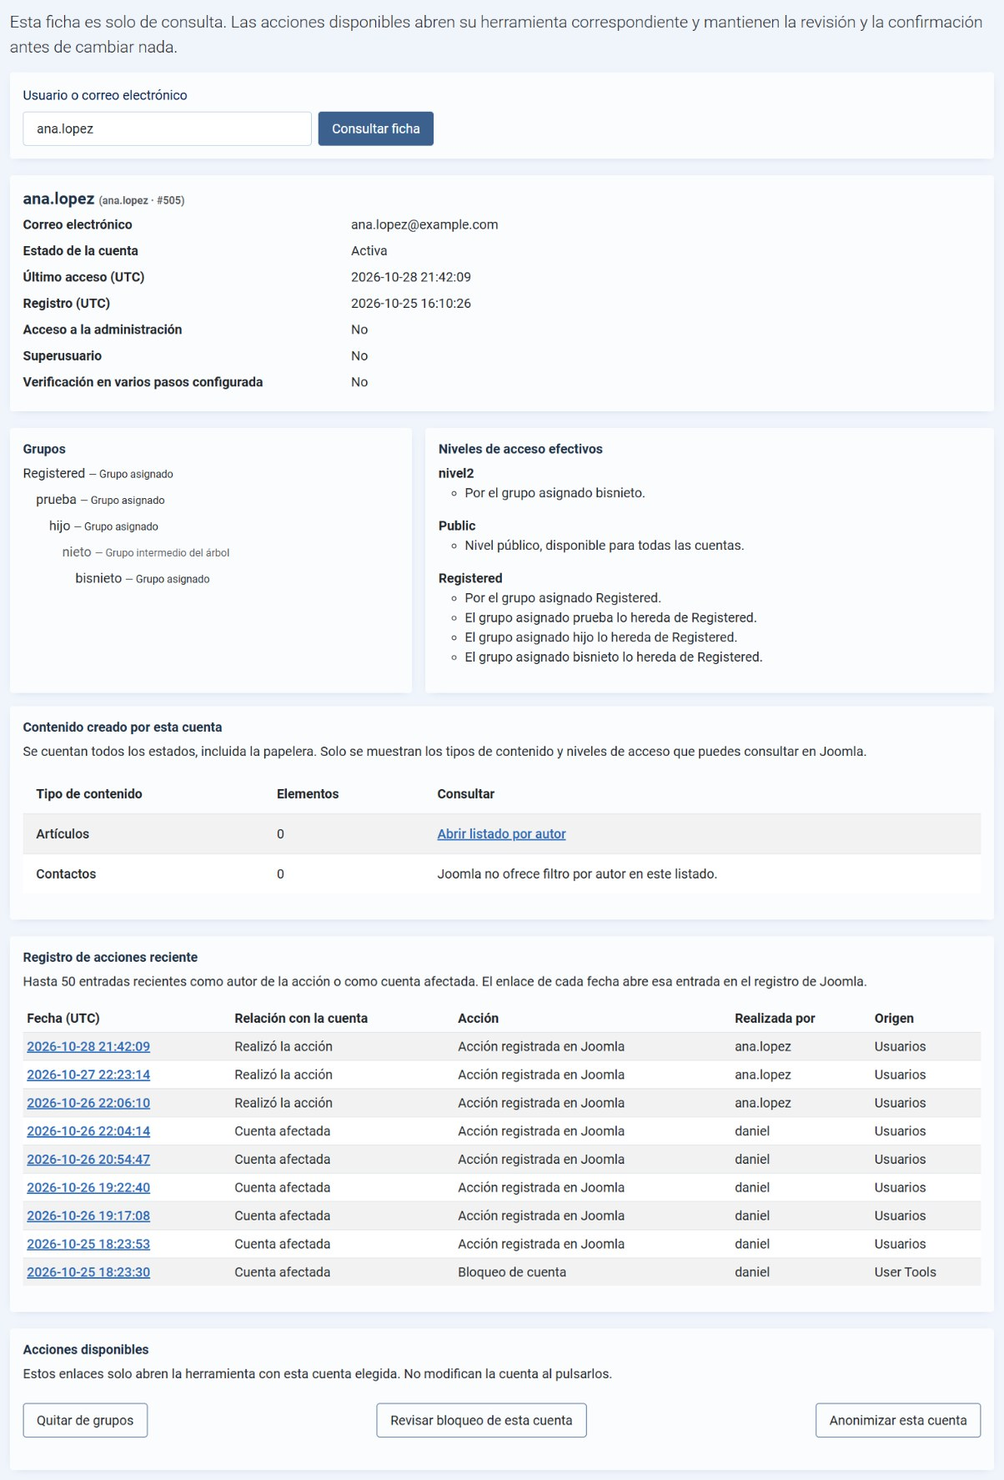
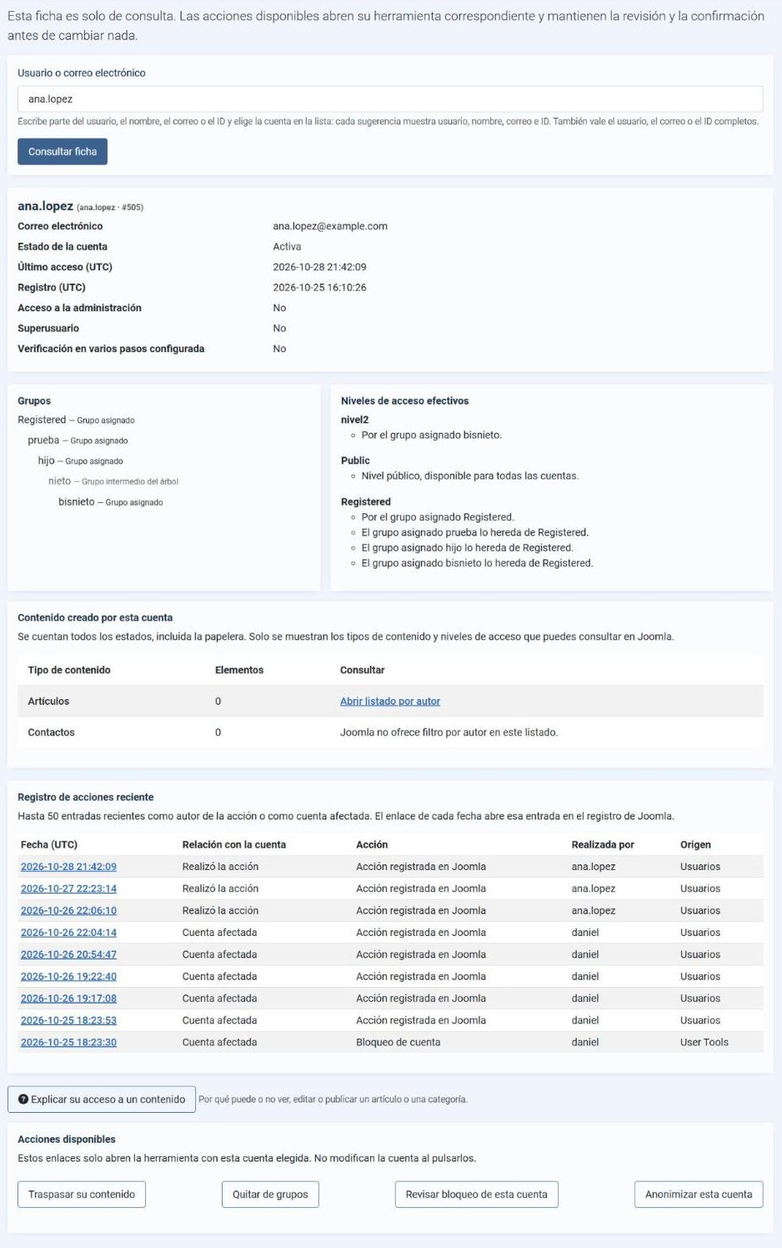
Add screenshots for sync, handover and anonymisation results
Refresh the home, category and profile screenshots and add the
synchronise, hand over and anonymisation result screens to the
gallery and the README in both languages. Note that long page titles
widen Joomla's header beyond 390 px.

The selection counter now uses a singular key, so one account no
longer reads "1 cuentas seleccionadas".

Refs #71

diff --git a/tests/js/admin.test.js b/tests/js/admin.test.js
@@ -9,7 +9,7 @@ const script = fs.readFileSync(path.join(__dirname, '../../media/js/admin.js'), 
 
 const load = (html) => {
   const dom = new JSDOM(`<!doctype html><body>${html}</body>`, { runScripts: 'outside-only' });
-  dom.window.Joomla = { Text: { _: (key, fallback) => ({ COM_USERTOOLS_JS_SELECTED: '%d seleccionadas', COM_USERTOOLS_JS_TYPE_COUNT: 'Escribe %d' }[key] || fallback) } };
+  dom.window.Joomla = { Text: { _: (key, fallback) => ({ COM_USERTOOLS_JS_SELECTED: '%d seleccionadas', COM_USERTOOLS_JS_SELECTED_1: '%d seleccionada', COM_USERTOOLS_JS_TYPE_COUNT: 'Escribe %d' }[key] || fallback) } };
   dom.window.eval(script);
   // The script waits for DOMContentLoaded while jsdom is still parsing.
   return new Promise((resolve) => {
@@ -68,7 +68,7 @@ test('inactivity review: selection, select-all on visible rows and typed confirm
   boxes[0].checked = true;
   change(boxes[0]);
   assert.equal(doc.querySelector('[data-ut-selected]').value, '[1]');
-  assert.equal(doc.querySelector('[data-ut-suspension-count]').textContent, '1 seleccionadas');
+  assert.equal(doc.querySelector('[data-ut-suspension-count]').textContent, '1 seleccionada', 'one account takes the singular key');
   assert.equal(doc.querySelector('[data-ut-typed]').hidden, true, 'below the threshold no number is typed');
   const filter = doc.querySelector('[data-ut-filter]');
   filter.value = 'user3';
@@ -83,6 +83,7 @@ test('inactivity review: selection, select-all on visible rows and typed confirm
   all.checked = true;
   change(all);
   assert.equal(doc.querySelector('[data-ut-selected]').value, '[1,2,3,4]');
+  assert.equal(doc.querySelector('[data-ut-suspension-count]').textContent, '4 seleccionadas');
   const typed = doc.querySelector('[data-ut-typed]');
   assert.equal(typed.hidden, false);
   assert.equal(doc.querySelector('[data-ut-typed-input]').required, true);

diff --git a/media/js/admin.js b/media/js/admin.js
@@ -47,7 +47,11 @@
         const ids = boxes.filter((box) => box.checked).map((box) => Number(box.dataset.utSuspendId));
         form.querySelector('[data-ut-selected]').value = JSON.stringify(ids);
         form.querySelector('[data-ut-selection-ready]').value = '1';
-        if (counter) counter.textContent = sprintf(text('COM_USERTOOLS_JS_SELECTED', '%d selected'), ids.length);
+        if (counter) {
+          // Joomla.Text has no plural rules, so the singular has its own key.
+          const key = ids.length === 1 ? 'COM_USERTOOLS_JS_SELECTED_1' : 'COM_USERTOOLS_JS_SELECTED';
+          counter.textContent = sprintf(text(key, ids.length === 1 ? '%d account selected' : '%d accounts selected'), ids.length);
+        }
         if (submit) submit.disabled = !ids.length;
         if (all) {
           all.checked = !!boxes.length && ids.length === boxes.length;

diff --git a/admin/src/View/ViewTrait.php b/admin/src/View/ViewTrait.php
@@ -48,7 +48,7 @@ trait ViewTrait
         $wa = $this->getDocument()->getWebAssetManager();
         $wa->getRegistry()->addExtensionRegistryFile('com_usertools');
         $wa->useStyle('com_usertools.admin')->useScript('com_usertools.admin');
-        foreach (['COM_USERTOOLS_JS_SELECTED', 'COM_USERTOOLS_JS_NO_RESULTS', 'COM_USERTOOLS_JS_TYPE_COUNT'] as $key) {
+        foreach (['COM_USERTOOLS_JS_SELECTED', 'COM_USERTOOLS_JS_SELECTED_1', 'COM_USERTOOLS_JS_NO_RESULTS', 'COM_USERTOOLS_JS_TYPE_COUNT'] as $key) {
             Text::script($key);
         }
     }

diff --git a/docs/capturas.md b/docs/capturas.md
@@ -4,21 +4,21 @@
 
 [Volver al README](../README.md)
 
-Estas capturas compartidas muestran la interfaz en español en Joomla 6.2.0. Cada pie indica la versión en que se hizo la captura cuando es reciente: las de eliminación son de 2026.10.5, las de quitar de grupos de 2026.10.9 y 2026.10.16, la revisión de la comparación y la de grupos y niveles de acceso de 2026.10.11, la de contenido por nivel de acceso de 2026.10.12, las de diagnóstico de accesos y la lista de contenido por antigüedad de 2026.10.15, las de mover grupos de 2026.10.16, las de añadir cuentas a grupos, exportar cuentas y deshacer bloqueos de 2026.10.19, las de la ficha de una persona de 2026.10.20, la tabla de contenido por antigüedad con sus cuatro tipos, las categorías de automatización, grupos y eliminación, y el recorrido guiado, de 2026.10.21, y la portada, la categoría «Revisar cuentas», el panel de Usuarios y la explicación de acceso, de la versión siguiente a 2026.10.21. Las que no indican versión corresponden a una interfaz anterior y pueden diferir de la actual. Para las opciones y el comportamiento vigentes, consulta el [README](../README.md) y las [preguntas frecuentes](../FAQ.md).
+Estas capturas compartidas muestran la interfaz en español en Joomla 6.2.0. Cada pie indica la versión en que se hizo la captura cuando es reciente: las de eliminación son de 2026.10.5, las de quitar de grupos de 2026.10.9 y 2026.10.16, la revisión de la comparación y la de grupos y niveles de acceso de 2026.10.11, la de contenido por nivel de acceso de 2026.10.12, las de diagnóstico de accesos y la lista de contenido por antigüedad de 2026.10.15, las de mover grupos de 2026.10.16, las de añadir cuentas a grupos, exportar cuentas y deshacer bloqueos de 2026.10.19, las de la ficha de una persona de 2026.10.20, la tabla de contenido por antigüedad con sus cuatro tipos, las categorías de automatización, grupos y eliminación, y el recorrido guiado, de 2026.10.21, y la portada, las categorías «Revisar cuentas» y «Grupos y niveles de acceso», la ficha de una persona, el panel de Usuarios, la explicación de acceso, sincronizar un colectivo, traspasar contenido y el resultado de la anonimización, de la versión siguiente a 2026.10.21. Las que no indican versión corresponden a una interfaz anterior y pueden diferir de la actual. Para las opciones y el comportamiento vigentes, consulta el [README](../README.md) y las [preguntas frecuentes](../FAQ.md).
 
-Además de estas capturas, la CI comprueba el orden de teclado, el despliegue del menú y la categoría activa, y guarda capturas a texto al 200 %, con preferencia oscura y a 390 px de ancho. Las tarjetas caben a 390 px, pero la cabecera general de Joomla genera un ancho de documento de 600 px; no se ha alterado la plantilla para ocultarlo. Esto no acredita conformidad WCAG ni sustituye pruebas con lector de pantalla.
+Además de estas capturas, la CI comprueba el orden de teclado, el despliegue del menú y la categoría activa, y guarda capturas a texto al 200 %, con preferencia oscura y a 390 px de ancho. Las tarjetas y los formularios caben a 390 px, pero la cabecera general de Joomla no parte el título de la página y genera un ancho de documento de unos 600 px, y hasta unos 780 px con los títulos más largos, como el de «Traspasar contenido y dar de baja»; no se ha alterado la plantilla para ocultarlo. Esto no acredita conformidad WCAG ni sustituye pruebas con lector de pantalla.
 
 ![Portada de User Tools con sus cuatro categorías y todas las herramientas permitidas, y el menú Componentes → User Tools desplegado con Inicio activo (posterior a 2026.10.21)](screenshots/01-portada.jpg)
 
-![Categoría «Revisar cuentas», señalada en el menú, con sus seis herramientas (posterior a 2026.10.21)](screenshots/31-menu-cuentas.jpg)
+![Categoría «Revisar cuentas», señalada en el menú, con sus siete herramientas, entre ellas «Traspasar contenido y dar de baja» (posterior a 2026.10.21)](screenshots/31-menu-cuentas.jpg)
 
-![Categoría «Grupos y niveles de acceso», señalada en el menú, con sus siete herramientas (2026.10.21)](screenshots/32-menu-grupos.jpg)
+![Categoría «Grupos y niveles de acceso», señalada en el menú, con sus ocho herramientas, entre ellas «Sincronizar un colectivo» (posterior a 2026.10.21)](screenshots/32-menu-grupos.jpg)
 
 ![Categoría «Automatización y seguimiento»: bloqueo automático por inactividad, con el estado de su plugin, y resultados de tareas (2026.10.21)](screenshots/33-menu-automatizacion.jpg)
 
 ![Categoría «Eliminar y anonimizar cuentas», con la marca «Permanente» y el aviso de que no se puede deshacer en cada herramienta (2026.10.21)](screenshots/34-menu-eliminacion.jpg)
 
-![Ficha de una persona: datos de la cuenta, grupos en su árbol con el grupo intermedio, niveles de acceso efectivos y por qué, contenido creado, registro de acciones reciente y enlaces a las herramientas (2026.10.20)](screenshots/28-ficha-persona.jpg)
+![Ficha de una persona: datos de la cuenta, grupos en su árbol con el grupo intermedio, niveles de acceso efectivos y por qué, contenido creado, registro de acciones reciente y enlaces a las herramientas, con «Traspasar su contenido» (posterior a 2026.10.21)](screenshots/28-ficha-persona.jpg)
 
 ![Ficha de una persona: revisión del bloqueo de esa cuenta, con confirmación y sin filtro de inactividad (2026.10.20)](screenshots/29-ficha-revision-bloqueo.jpg)
 
@@ -42,13 +42,27 @@ Además de estas capturas, la CI comprueba el orden de teclado, el despliegue de
 
 ![Deshacer bloqueos: tandas recientes de la tarea programada con las cuentas que bloqueó cada una, para revisarlas antes de desbloquear (2026.10.19)](screenshots/27-deshacer-bloqueos.jpg)
 
+![Traspasar contenido y dar de baja: la cuenta que se va, abierta desde su ficha con la cuenta ya elegida (posterior a 2026.10.21)](screenshots/38-traspasar-cuenta.jpg)
+
+![Traspasar contenido y dar de baja: artículos de la cuenta con su estado y categoría, y la cuenta que los recibe (posterior a 2026.10.21)](screenshots/39-traspasar-articulos.jpg)
+
+![Traspasar contenido y dar de baja: revisión con origen, destino y sus grupos, y qué cambia en cada artículo (posterior a 2026.10.21)](screenshots/40-traspasar-revision.jpg)
+
+![Traspasar contenido y dar de baja: resultado con los artículos traspasados y los enlaces para revisar el bloqueo o la anonimización de la cuenta (posterior a 2026.10.21)](screenshots/41-traspasar-resultado.jpg)
+
 ![Eliminar inactivos: plazo, cuentas listadas y exclusiones (2026.10.5)](screenshots/11-eliminar-plazo.jpg)
 
 ![Eliminar inactivos: selección de cuentas y confirmación (2026.10.5)](screenshots/12-eliminar-seleccion.jpg)
 
+![Anonimizar cuentas: resultado con la identidad comprobada y la limpieza adicional comprobada por cuenta, y el resumen de lo que se ha hecho, lo que no se puede comprobar y lo que queda fuera (posterior a 2026.10.21)](screenshots/42-anonimizar-resultado.jpg)
+
 ![Añadir cuentas a grupos: pares usuario;grupo con rutas completas (2026.10.19)](screenshots/24-anadir-grupos-lista.jpg)
 
 ![Añadir cuentas a grupos: revisión con las asignaciones que se harán, una que ya existía, una cuenta protegida, un usuario inexistente y un grupo con acceso a la administración rechazado (2026.10.19)](screenshots/25-anadir-grupos-revision.jpg)
+
+![Sincronizar un colectivo: rama gestionada, tipo de lista, forma de identificar las cuentas y lista con su ejemplo (posterior a 2026.10.21)](screenshots/36-sincronizar-lista.jpg)
+
+![Sincronizar un colectivo: revisión de una actualización parcial con los grupos gestionados y, por cuenta, una cuenta nueva, dos cambios de grupos, una cuenta protegida y una fila con un grupo fuera de la rama (posterior a 2026.10.21)](screenshots/37-sincronizar-revision.jpg)
 
 ![Quitar de grupos: elegir la cuenta (2026.10.9)](screenshots/15-quitar-grupos-cuenta.jpg)
 

diff --git a/docs/screenshots.en.md b/docs/screenshots.en.md
@@ -4,21 +4,21 @@
 
 [Back to the README](../README.en.md)
 
-These shared screenshots show the Spanish interface on Joomla 6.2.0. Each caption gives the version the screenshot was taken with when it is recent: deletion in 2026.10.5, remove from groups in 2026.10.9 and 2026.10.16, the comparison review and groups and access levels in 2026.10.11, content by access level in 2026.10.12, access diagnosis and the content by age list in 2026.10.15, move groups in 2026.10.16, add accounts to groups, export accounts and undo blocks in 2026.10.19, the account profile in 2026.10.20, the content by age table with its four kinds, the automation, groups and delete categories and the guided tour in 2026.10.21, and the home screen, the “Review accounts” category, the Users dashboard and the access explanation in the version after 2026.10.21. Screenshots without a version show an older interface and may differ from the current one. For current options and behaviour, see the [README](../README.en.md) and [FAQ](../FAQ.en.md).
+These shared screenshots show the Spanish interface on Joomla 6.2.0. Each caption gives the version the screenshot was taken with when it is recent: deletion in 2026.10.5, remove from groups in 2026.10.9 and 2026.10.16, the comparison review and groups and access levels in 2026.10.11, content by access level in 2026.10.12, access diagnosis and the content by age list in 2026.10.15, move groups in 2026.10.16, add accounts to groups, export accounts and undo blocks in 2026.10.19, the account profile in 2026.10.20, the content by age table with its four kinds, the automation, groups and delete categories and the guided tour in 2026.10.21, and the home screen, the “Review accounts” and “Groups and access levels” categories, the account profile, the Users dashboard, the access explanation, synchronising a group branch, handing over content and the anonymisation result in the version after 2026.10.21. Screenshots without a version show an older interface and may differ from the current one. For current options and behaviour, see the [README](../README.en.md) and [FAQ](../FAQ.en.md).
 
-Besides these screenshots, CI checks keyboard order, menu expansion and the active category, and saves captures at 200% text size, with a dark preference and at 390 px width. The cards fit at 390 px, but Joomla’s overall header produces a document width of 600 px; the template has not been altered to hide this. This does not establish WCAG conformance or replace screen-reader testing.
+Besides these screenshots, CI checks keyboard order, menu expansion and the active category, and saves captures at 200% text size, with a dark preference and at 390 px width. The cards and forms fit at 390 px, but Joomla’s overall header does not wrap the page title and produces a document width of about 600 px, and up to about 780 px with the longest titles, such as “Hand over content and close an account”; the template has not been altered to hide this. This does not establish WCAG conformance or replace screen-reader testing.
 
 ![User Tools home screen with its four categories and all permitted tools, and the Components → User Tools menu expanded with Home active (after 2026.10.21, Spanish interface)](screenshots/01-portada.jpg)
 
-![“Review accounts” category, marked in the menu, with its six tools (after 2026.10.21, Spanish interface)](screenshots/31-menu-cuentas.jpg)
+![“Review accounts” category, marked in the menu, with its seven tools, including “Hand over content and close an account” (after 2026.10.21, Spanish interface)](screenshots/31-menu-cuentas.jpg)
 
-![“Groups and access levels” category, marked in the menu, with its seven tools (2026.10.21, Spanish interface)](screenshots/32-menu-grupos.jpg)
+![“Groups and access levels” category, marked in the menu, with its eight tools, including “Synchronise a group branch” (after 2026.10.21, Spanish interface)](screenshots/32-menu-grupos.jpg)
 
 ![“Automation and follow-up” category: automatic inactivity blocking, with its plugin status, and task results (2026.10.21, Spanish interface)](screenshots/33-menu-automatizacion.jpg)
 
 ![“Delete and anonymise accounts” category, with the “Permanent” badge and the cannot-be-undone warning on each tool (2026.10.21, Spanish interface)](screenshots/34-menu-eliminacion.jpg)
 
-![Account profile: account details, groups in their tree with the intermediate group, effective access levels and why, authored content, recent action log and links to the tools (2026.10.20, Spanish interface)](screenshots/28-ficha-persona.jpg)
+![Account profile: account details, groups in their tree with the intermediate group, effective access levels and why, authored content, recent action log and links to the tools, including “Hand over their content” (after 2026.10.21, Spanish interface)](screenshots/28-ficha-persona.jpg)
 
 ![Account profile: review of blocking that account, with confirmation and no inactivity filter (2026.10.20, Spanish interface)](screenshots/29-ficha-revision-bloqueo.jpg)
 
@@ -42,13 +42,27 @@ Besides these screenshots, CI checks keyboard order, menu expansion and the acti
 
 ![Undo blocks: recent scheduled task runs with the accounts each one blocked, to review before unblocking (2026.10.19, Spanish interface)](screenshots/27-deshacer-bloqueos.jpg)
 
+![Hand over content and close an account: the leaving account, opened from its profile with the account already chosen (after 2026.10.21, Spanish interface)](screenshots/38-traspasar-cuenta.jpg)
+
+![Hand over content and close an account: the account’s articles with their state and category, and the receiving account (after 2026.10.21, Spanish interface)](screenshots/39-traspasar-articulos.jpg)
+
+![Hand over content and close an account: review with source, target and its groups, and what changes in each article (after 2026.10.21, Spanish interface)](screenshots/40-traspasar-revision.jpg)
+
+![Hand over content and close an account: result with the handed-over articles and the links to review blocking or anonymising the account (after 2026.10.21, Spanish interface)](screenshots/41-traspasar-resultado.jpg)
+
 ![Delete inactive users: period, status and exclusions (2026.10.5)](screenshots/11-eliminar-plazo.jpg)
 
 ![Delete inactive users: selection and confirmation (2026.10.5)](screenshots/12-eliminar-seleccion.jpg)
 
+![Anonymise accounts: result with the verified identity and verified additional clean-up per account, and the summary of what was done, what cannot be verified and what is out of scope (after 2026.10.21, Spanish interface)](screenshots/42-anonimizar-resultado.jpg)
+
 ![Add accounts to groups: username;group pairs with full paths (2026.10.19, Spanish interface)](screenshots/24-anadir-grupos-lista.jpg)
 
 ![Add accounts to groups: review with the assignments to be made, one that already existed, a protected account, an unknown user and a refused group with administrator access (2026.10.19, Spanish interface)](screenshots/25-anadir-grupos-revision.jpg)
+
+![Synchronise a group branch: managed branch, type of list, how accounts are identified and the list with its example (after 2026.10.21, Spanish interface)](screenshots/36-sincronizar-lista.jpg)
+
+![Synchronise a group branch: review of a partial update with the managed groups and, per account, a new account, two group changes, a protected account and a row with a group outside the branch (after 2026.10.21, Spanish interface)](screenshots/37-sincronizar-revision.jpg)
 
 ![Remove from groups: choose the account (2026.10.9)](screenshots/15-quitar-grupos-cuenta.jpg)
 

diff --git a/README.md b/README.md
@@ -219,6 +219,10 @@ Cuando una persona deja la organización, bloquear o anonimizar su cuenta no res
 
 Traspasar no bloquea, elimina ni anonimiza la cuenta. Requiere el permiso propio `usertools.reassign`, el de la ficha de una persona (`usertools.profile`) y poder gestionar los artículos en Joomla.
 
+![Traspasar contenido y dar de baja: revisión con origen, destino y sus grupos, y qué cambia en cada artículo](docs/screenshots/40-traspasar-revision.jpg)
+
+![Traspasar contenido y dar de baja: resultado con los artículos traspasados y los enlaces para cerrar la cuenta](docs/screenshots/41-traspasar-resultado.jpg)
+
 ## Eliminar usuarios inactivos
 
 En la portada, «Revisar cuentas para eliminar». Es la única herramienta que **borra** cuentas, y el borrado no se puede deshacer; para impedir el acceso sin borrar, usa la revisión de inactivos.
@@ -276,6 +280,8 @@ Las **cuentas nuevas** solo se crean al identificar por usuario, con el permiso 
 
 Se requiere el permiso propio `usertools.sync`. Nunca se modifican superusuarios, cuentas con acceso a la administración ni tu propia cuenta. Hay que confirmar y, a partir del umbral de Opciones, escribir el número de cuentas; si la lista deja sin ningún grupo de la rama a más de la mitad de sus miembros actuales (por salida o por una fila con los grupos vacíos), se pide además una confirmación expresa. Si la lista, la rama, los grupos, las cuentas o tus permisos cambian antes de aplicar, la revisión se retira. Cada cuenta se vuelve a comprobar con Joomla justo antes de guardarla, se guarda con su API, se cierran y verifican sus sesiones y queda en el registro de acciones; las listas grandes continúan por tandas sin repetir cuentas, y un cierre de sesiones fallido se reintenta desde el resultado sin volver a guardar los grupos.
 
+![Sincronizar un colectivo: revisión de una actualización parcial con una cuenta nueva, cambios de grupos, una cuenta protegida y una fila no válida](docs/screenshots/37-sincronizar-revision.jpg)
+
 
 ## Anonimizar cuentas
 
@@ -308,6 +314,8 @@ Si falla el borrado del perfil, las notas o los campos, la cuenta **ya está ano
 - **Datos adicionales**: «Limpieza comprobada» solo si, después de borrar, no queda nada del perfil, las notas ni los campos personalizados de la cuenta. Si queda algo o el borrado falla, «Limpieza pendiente» indica de qué fuente, y se repite con «Solo repetir la limpieza», sin volver a anonimizar.
 
 Debajo, un resumen explica el alcance: lo comprobado en Joomla; los **plugins de privacidad** a los que se pidió borrar sus datos, por su nombre, marcados como **no verificables**, porque que no den error no demuestra que lo hayan hecho; y lo que queda **fuera de la herramienta** (contenido creado por la cuenta, mensajes, registro de acciones, medios y archivos, copias de seguridad y datos en otros sistemas), que puede necesitar su propia revisión o política de conservación. La pantalla lo resume así: **«La anonimización de la identidad en Joomla no garantiza por sí sola la eliminación de todos los datos personales relacionados con esta persona.»** La anonimización técnica no equivale por sí sola al cumplimiento del RGPD.
+
+![Anonimizar cuentas: resultado con la identidad y la limpieza adicional comprobadas, y el resumen del alcance](docs/screenshots/42-anonimizar-resultado.jpg)
 
 ## Tarea programada por inactividad
 

diff --git a/README.en.md b/README.en.md
@@ -220,6 +220,10 @@ When someone leaves the organisation, blocking or anonymising their account does
 
 Handing over never blocks, deletes or anonymises the account. It requires the dedicated `usertools.reassign` permission, the account profile permission (`usertools.profile`) and being able to manage articles in Joomla.
 
+![Hand over content and close an account: review with source, target and its groups, and what changes in each article (Spanish interface)](docs/screenshots/40-traspasar-revision.jpg)
+
+![Hand over content and close an account: result with the handed-over articles and the links to close the account (Spanish interface)](docs/screenshots/41-traspasar-resultado.jpg)
+
 ## Delete inactive users
 
 On the home screen, choose “Review accounts for deletion”. This is the only tool that **deletes** accounts, and deletion cannot be undone; use the inactivity review to prevent access while preserving accounts.
@@ -277,6 +281,8 @@ The **review** shows the exact list of managed groups and, per account, what is 
 
 The dedicated `usertools.sync` permission is required. Super Users, accounts with administrator access and your own account are never changed. You must confirm and, from the threshold in Options, type the number of accounts; if the list leaves more than half of the current members without any group of the branch (as leavers or through a row with empty groups), an explicit confirmation is also required. If the list, the branch, the groups, the accounts or your permissions change before applying, the review is withdrawn. Each account is checked again with Joomla just before saving, saved through its API, its sessions are closed and verified, and it is written to the User Actions Log; large lists continue in batches without repeating accounts, and a failed session closing is retried from the result without saving the groups again.
 
+![Synchronise a group branch: review of a partial update with a new account, group changes, a protected account and an invalid row (Spanish interface)](docs/screenshots/37-sincronizar-revision.jpg)
+
 
 ## Anonymise accounts
 
@@ -309,6 +315,8 @@ If profile, notes or custom-field cleanup fails, the account **has already been 
 - **Additional data**: “Cleanup checked” only if nothing is left of the account's profile, notes or custom fields after deleting. If something remains or the deletion fails, “Cleanup pending” says which source, and it is repeated with “Only retry the cleanup”, without anonymising again.
 
 Below, a summary explains the scope: what was checked in Joomla; the **privacy plugins** that were asked to remove their data, by name, marked as **cannot be verified**, because returning without an error does not prove they did; and what is **outside the tool** (content created by the account, messages, the action log, media and files, backups and data in other systems), which may need its own review or retention policy. The screen sums it up: **“Anonymising the identity in Joomla does not by itself guarantee the removal of all personal data related to this person.”** Technical anonymisation is not by itself compliance with the GDPR.
+
+![Anonymise accounts: result with the verified identity and additional clean-up, and the scope summary (Spanish interface)](docs/screenshots/42-anonimizar-resultado.jpg)
 
 ## Scheduled inactivity task
 
